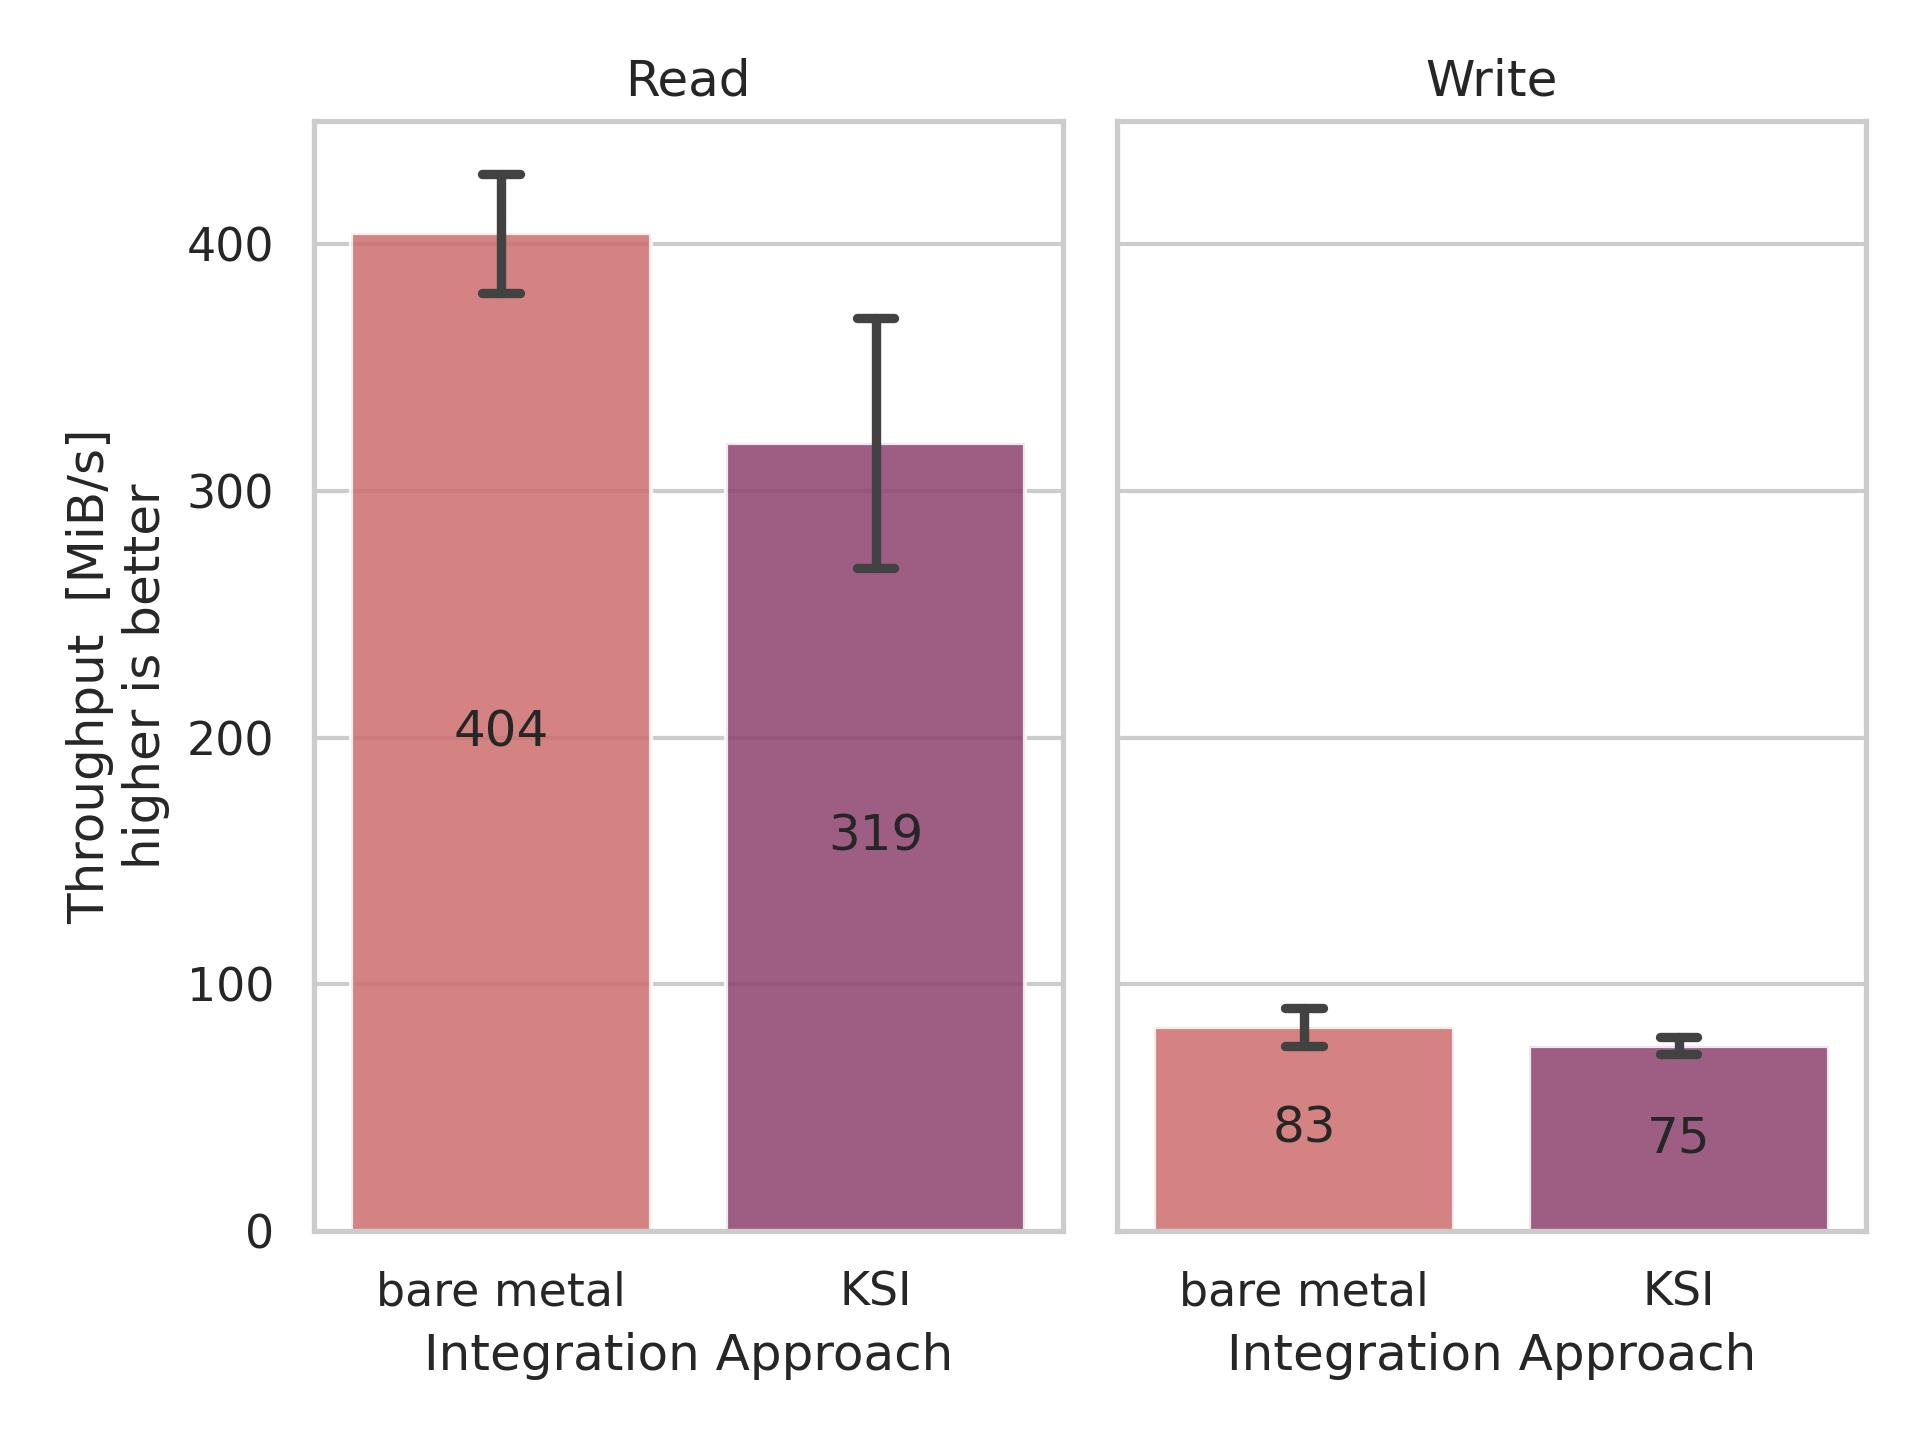
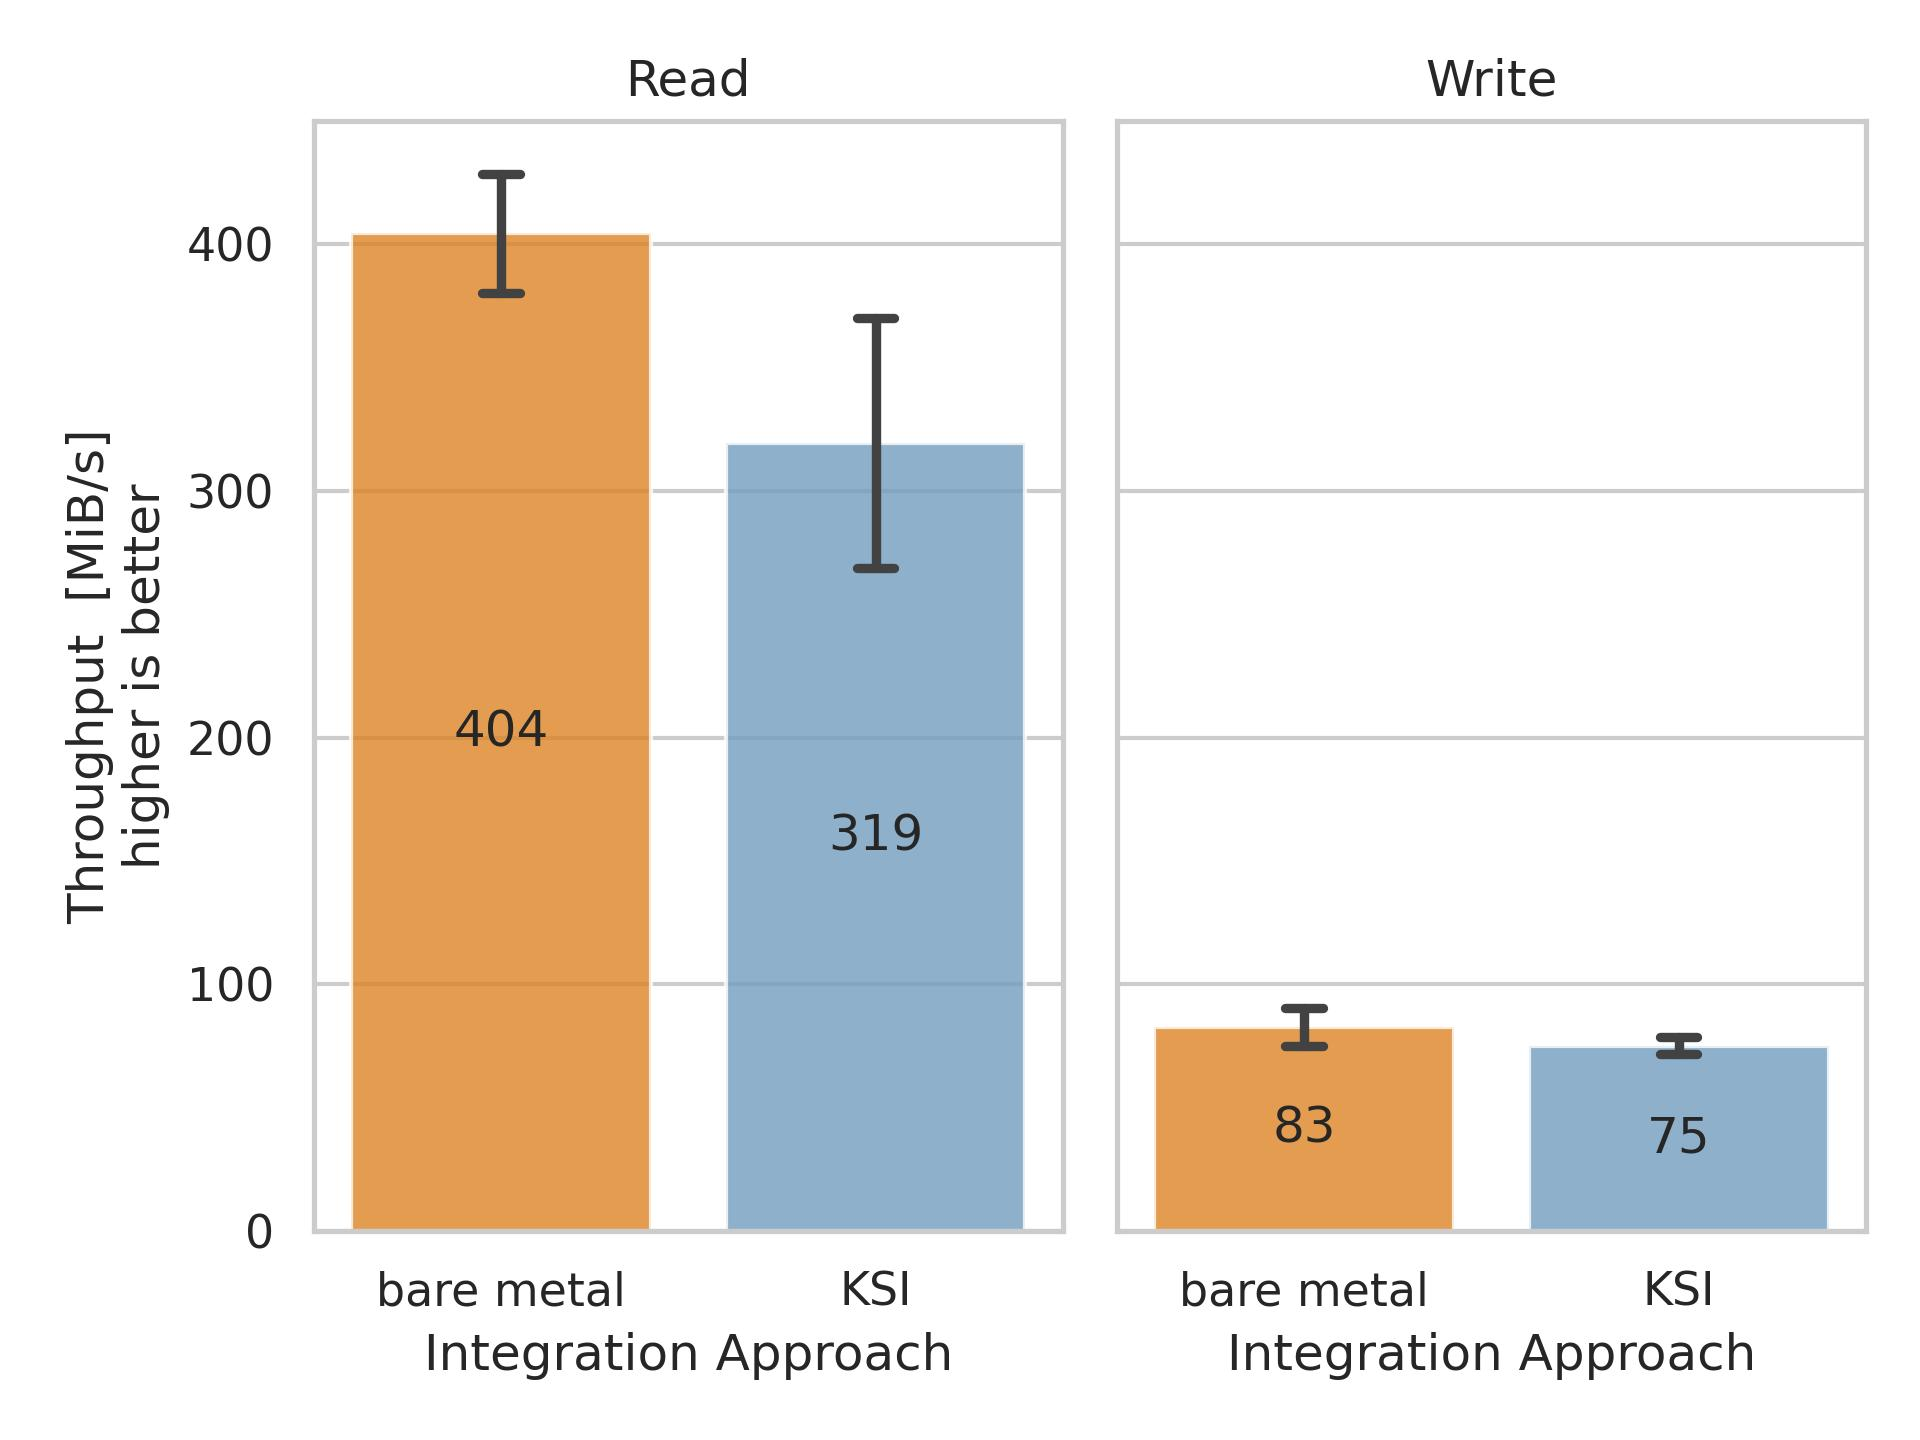
Update python plot scripts: new bar colors

Changed region(s): [[0.1562, 0.1562, 0.3438, 0.875], [0.375, 0.2812, 0.5312, 0.875], [0.5938, 0.6875, 0.9688, 0.875]]

diff --git a/src/plot/plot-fio-diskseq.py b/src/plot/plot-fio-diskseq.py
@@ -34,16 +34,20 @@ sns.set_theme(style="whitegrid")
 fig, axes = plt.subplots(1, 2, sharey=True)
 
 # Read
-chartRead = sns.barplot(ax=axes[0], data=df[["project", "readthroughput"]], hue="project", palette="flare", x="project", y="readthroughput",
-                        estimator=np.mean, errorbar='sd', capsize=.1, alpha=0.85)
+chartRead = sns.barplot(ax=axes[0], data=df[["project", "readthroughput"]], hue="project",
+                        palette=sns.color_palette(common.colors(len(benchmark_files))),
+                        x="project", y="readthroughput",
+                        estimator=np.mean, errorbar='sd', capsize=.1, alpha=0.8)
 chartRead.set(xlabel='Integration Approach', ylabel='Throughput  [MiB/s]\nhigher is better', title="Read")
 
 for i in chartRead.containers:
     chartRead.bar_label(i, label_type="center", fmt="%.0f")
 
 # Write
-chartWrite = sns.barplot(ax=axes[1], data=df[["project", "writethroughput"]], hue="project", palette="flare", x="project", y="writethroughput",
-                    estimator=np.mean, errorbar='sd', capsize=.1, alpha=0.85)
+chartWrite = sns.barplot(ax=axes[1], data=df[["project", "writethroughput"]], hue="project",
+                         palette=sns.color_palette(common.colors(len(benchmark_files))),
+                         x="project", y="writethroughput",
+                         estimator=np.mean, errorbar='sd', capsize=.1, alpha=0.8)
 
 chartWrite.set(xlabel='Integration Approach', ylabel='Throughput  [MiB/s]\nhigher is better', title="Write")
 

diff --git a/src/plot/plot-sysbench-diskrnd.py b/src/plot/plot-sysbench-diskrnd.py
@@ -32,16 +32,20 @@ sns.set_theme(style="whitegrid")
 fig, axes = plt.subplots(1, 2, sharey=True)
 
 # Read
-chartRead = sns.barplot(ax=axes[0], data=df[["project", "readthroughput"]], hue="project", palette="flare", x="project", y="readthroughput",
-                        estimator=np.mean, errorbar='sd', capsize=.1, alpha=0.85)
+chartRead = sns.barplot(ax=axes[0], data=df[["project", "readthroughput"]], hue="project",
+                        palette=sns.color_palette(common.colors(len(benchmark_files))),
+                        x="project", y="readthroughput",
+                        estimator=np.mean, errorbar='sd', capsize=.1, alpha=0.8)
 chartRead.set(xlabel='Integration Approach', ylabel='Throughput  [MiB/s]\nhigher is better', title="Read")
 
 for i in chartRead.containers:
     chartRead.bar_label(i, label_type="center", fmt="%.0f")
 
 # Write
-chartWrite = sns.barplot(ax=axes[1], data=df[["project", "writethroughput"]], hue="project", palette="flare", x="project", y="writethroughput",
-                    estimator=np.mean, errorbar='sd', capsize=.1, alpha=0.85)
+chartWrite = sns.barplot(ax=axes[1], data=df[["project", "writethroughput"]], hue="project",
+                         palette=sns.color_palette(common.colors(len(benchmark_files))),
+                         x="project", y="writethroughput",
+                         estimator=np.mean, errorbar='sd', capsize=.1, alpha=0.8)
 
 chartWrite.set(xlabel='Integration Approach', ylabel='Throughput  [MiB/s]\nhigher is better', title="Write")
 

diff --git a/src/plot/plot-sysbench-diskseq.py b/src/plot/plot-sysbench-diskseq.py
@@ -32,16 +32,20 @@ sns.set_theme(style="whitegrid")
 fig, axes = plt.subplots(1, 2, sharey=True)
 
 # Read
-chartRead = sns.barplot(ax=axes[0], data=df[["project", "readthroughput"]], hue="project", palette="flare", x="project", y="readthroughput",
-                        estimator=np.mean, errorbar='sd', capsize=.1, alpha=0.85)
+chartRead = sns.barplot(ax=axes[0], data=df[["project", "readthroughput"]], hue="project",
+                        palette=sns.color_palette(common.colors(len(benchmark_files))),
+                        x="project", y="readthroughput",
+                        estimator=np.mean, errorbar='sd', capsize=.1, alpha=0.8)
 chartRead.set(xlabel='Integration Approach', ylabel='Throughput  [MiB/s]\nhigher is better', title="Read")
 
 for i in chartRead.containers:
     chartRead.bar_label(i, label_type="center", fmt="%.0f")
 
 # Write
-chartWrite = sns.barplot(ax=axes[1], data=df[["project", "writethroughput"]], hue="project", palette="flare", x="project", y="writethroughput",
-                    estimator=np.mean, errorbar='sd', capsize=.1, alpha=0.85)
+chartWrite = sns.barplot(ax=axes[1], data=df[["project", "writethroughput"]], hue="project",
+                         palette=sns.color_palette(common.colors(len(benchmark_files))),
+                         x="project", y="writethroughput",
+                         estimator=np.mean, errorbar='sd', capsize=.1, alpha=0.8)
 
 chartWrite.set(xlabel='Integration Approach', ylabel='Throughput  [MiB/s]\nhigher is better', title="Write")
 

diff --git a/src/plot/plot-fio-diskrnd.py b/src/plot/plot-fio-diskrnd.py
@@ -34,7 +34,9 @@ sns.set_theme(style="whitegrid")
 fig, axes = plt.subplots(1, 2, sharey=True)
 
 # Read
-chartRead = sns.barplot(ax=axes[0], data=df[["project", "readthroughput"]], hue="project", palette="flare", x="project", y="readthroughput",
+chartRead = sns.barplot(ax=axes[0], data=df[["project", "readthroughput"]], hue="project",
+                        palette=sns.color_palette(common.colors(len(benchmark_files))),
+                        x="project", y="readthroughput",
                         estimator=np.mean, errorbar='sd', capsize=.1, alpha=0.8)
 chartRead.set(xlabel='Integration Approach', ylabel='Throughput  [MiB/s]\nhigher is better', title="Read")
 
@@ -42,8 +44,10 @@ for i in chartRead.containers:
     chartRead.bar_label(i, label_type="center", fmt="%.0f")
 
 # Write
-chartWrite = sns.barplot(ax=axes[1], data=df[["project", "writethroughput"]], hue="project", palette="flare", x="project", y="writethroughput",
-                    estimator=np.mean, errorbar='sd', capsize=.1, alpha=0.8)
+chartWrite = sns.barplot(ax=axes[1], data=df[["project", "writethroughput"]], hue="project",
+                         palette=sns.color_palette(common.colors(len(benchmark_files))),
+                         x="project", y="writethroughput",
+                         estimator=np.mean, errorbar='sd', capsize=.1, alpha=0.8)
 
 chartWrite.set(xlabel='Integration Approach', ylabel='Throughput  [MiB/s]\nhigher is better', title="Write")
 

diff --git a/src/plot/plot-netperf-latency.py b/src/plot/plot-netperf-latency.py
@@ -30,8 +30,10 @@ print(df)
 # Plot data
 
 sns.set_theme(style="whitegrid")
-chart = sns.barplot(data=df[["project", "mean_latency"]], hue="project", palette="flare", x="project", y="mean_latency",
-                    estimator=np.mean, errorbar='sd', capsize=.1, alpha=0.85)
+chart = sns.barplot(data=df[["project", "mean_latency"]], hue="project",
+                    palette=sns.color_palette(common.colors(len(benchmark_files))),
+                    x="project", y="mean_latency",
+                    estimator=np.mean, errorbar='sd', capsize=.1, alpha=0.8)
 chart.set(xlabel='Integration Approach', ylabel='Latency  [microseconds]\nlower is better')
 
 for i in chart.containers:

diff --git a/src/plot/plot-sysbench-cpu.py b/src/plot/plot-sysbench-cpu.py
@@ -30,8 +30,10 @@ print(df)
 # Plot data
 
 sns.set_theme(style="whitegrid")
-chart = sns.barplot(data=df[["project", "score"]], hue="project", palette="flare", x="project", y="score",
-                    estimator=np.mean, errorbar='sd', capsize=.1, alpha=0.85)
+chart = sns.barplot(data=df[["project", "score"]], hue="project",
+                    palette=sns.color_palette(common.colors(len(benchmark_files))),
+                    x="project", y="score",
+                    estimator=np.mean, errorbar='sd', capsize=.1, alpha=0.8)
 chart.set(xlabel='Integration Approach', ylabel='Compute Performance  [Events/s]\nhigher is better')
 
 for i in chart.containers:

diff --git a/src/plot/plot-stream-memory.py b/src/plot/plot-stream-memory.py
@@ -33,8 +33,10 @@ print(df)
 # Plot data
 
 sns.set_theme(style="whitegrid")
-chart = sns.barplot(data=df[["project", "score"]], hue="project", palette="flare", x="project", y="score",
-                    estimator=np.mean, errorbar='sd', capsize=.1, alpha=0.85)
+chart = sns.barplot(data=df[["project", "score"]], hue="project",
+                    palette=sns.color_palette(common.colors(len(benchmark_files))),
+                    x="project", y="score",
+                    estimator=np.mean, errorbar='sd', capsize=.1, alpha=0.8)
 chart.set(xlabel='Integration Approach', ylabel='Memory Throughput  [MB/s]\nhigher is better')
 
 for i in chart.containers:

diff --git a/src/plot/plot-startup-time.py b/src/plot/plot-startup-time.py
@@ -29,8 +29,10 @@ print(df)
 # Plot data
 
 sns.set_theme(style="whitegrid")
-chart = sns.barplot(data=df[["project", "millis"]], hue="project", palette="flare", x="project", y="millis",
-                    estimator=np.mean, errorbar='sd', capsize=.1, alpha=0.85)
+chart = sns.barplot(data=df[["project", "millis"]], hue="project",
+                    palette=sns.color_palette(common.colors(len(benchmark_files))),
+                    x="project", y="millis",
+                    estimator=np.mean, errorbar='sd', capsize=.1, alpha=0.8)
 chart.set(xlabel='Integration Approach', ylabel='Startup Time  [ms]\nlower is better')
 
 for i in chart.containers:

diff --git a/src/plot/plot-iperf3-bandwidth.py b/src/plot/plot-iperf3-bandwidth.py
@@ -30,8 +30,10 @@ print(df)
 # Plot data
 
 sns.set_theme(style="whitegrid")
-chart = sns.barplot(data=df[["project", "score"]], hue="project", palette="flare", x="project", y="score",
-                    estimator=np.mean, errorbar='sd', capsize=.1, alpha=0.85)
+chart = sns.barplot(data=df[["project", "score"]], hue="project",
+                    palette=sns.color_palette(common.colors(len(benchmark_files))),
+                    x="project", y="score",
+                    estimator=np.mean, errorbar='sd', capsize=.1, alpha=0.8)
 chart.set(xlabel='Integration Approach', ylabel='Throughput  [MBit/s]\nhigher is better')
 
 for i in chart.containers:

diff --git a/src/plot/common.py b/src/plot/common.py
@@ -12,3 +12,7 @@ def map_approach_name(project):
     if hasattr(project, "__iter__"):
         return [_mapNames[a] for a in project]
     return _mapNames[project]
+
+
+def colors(n: int) -> list:
+    return ["#fc8405"] + ["#669fcc" for _ in range(n - 1)]
